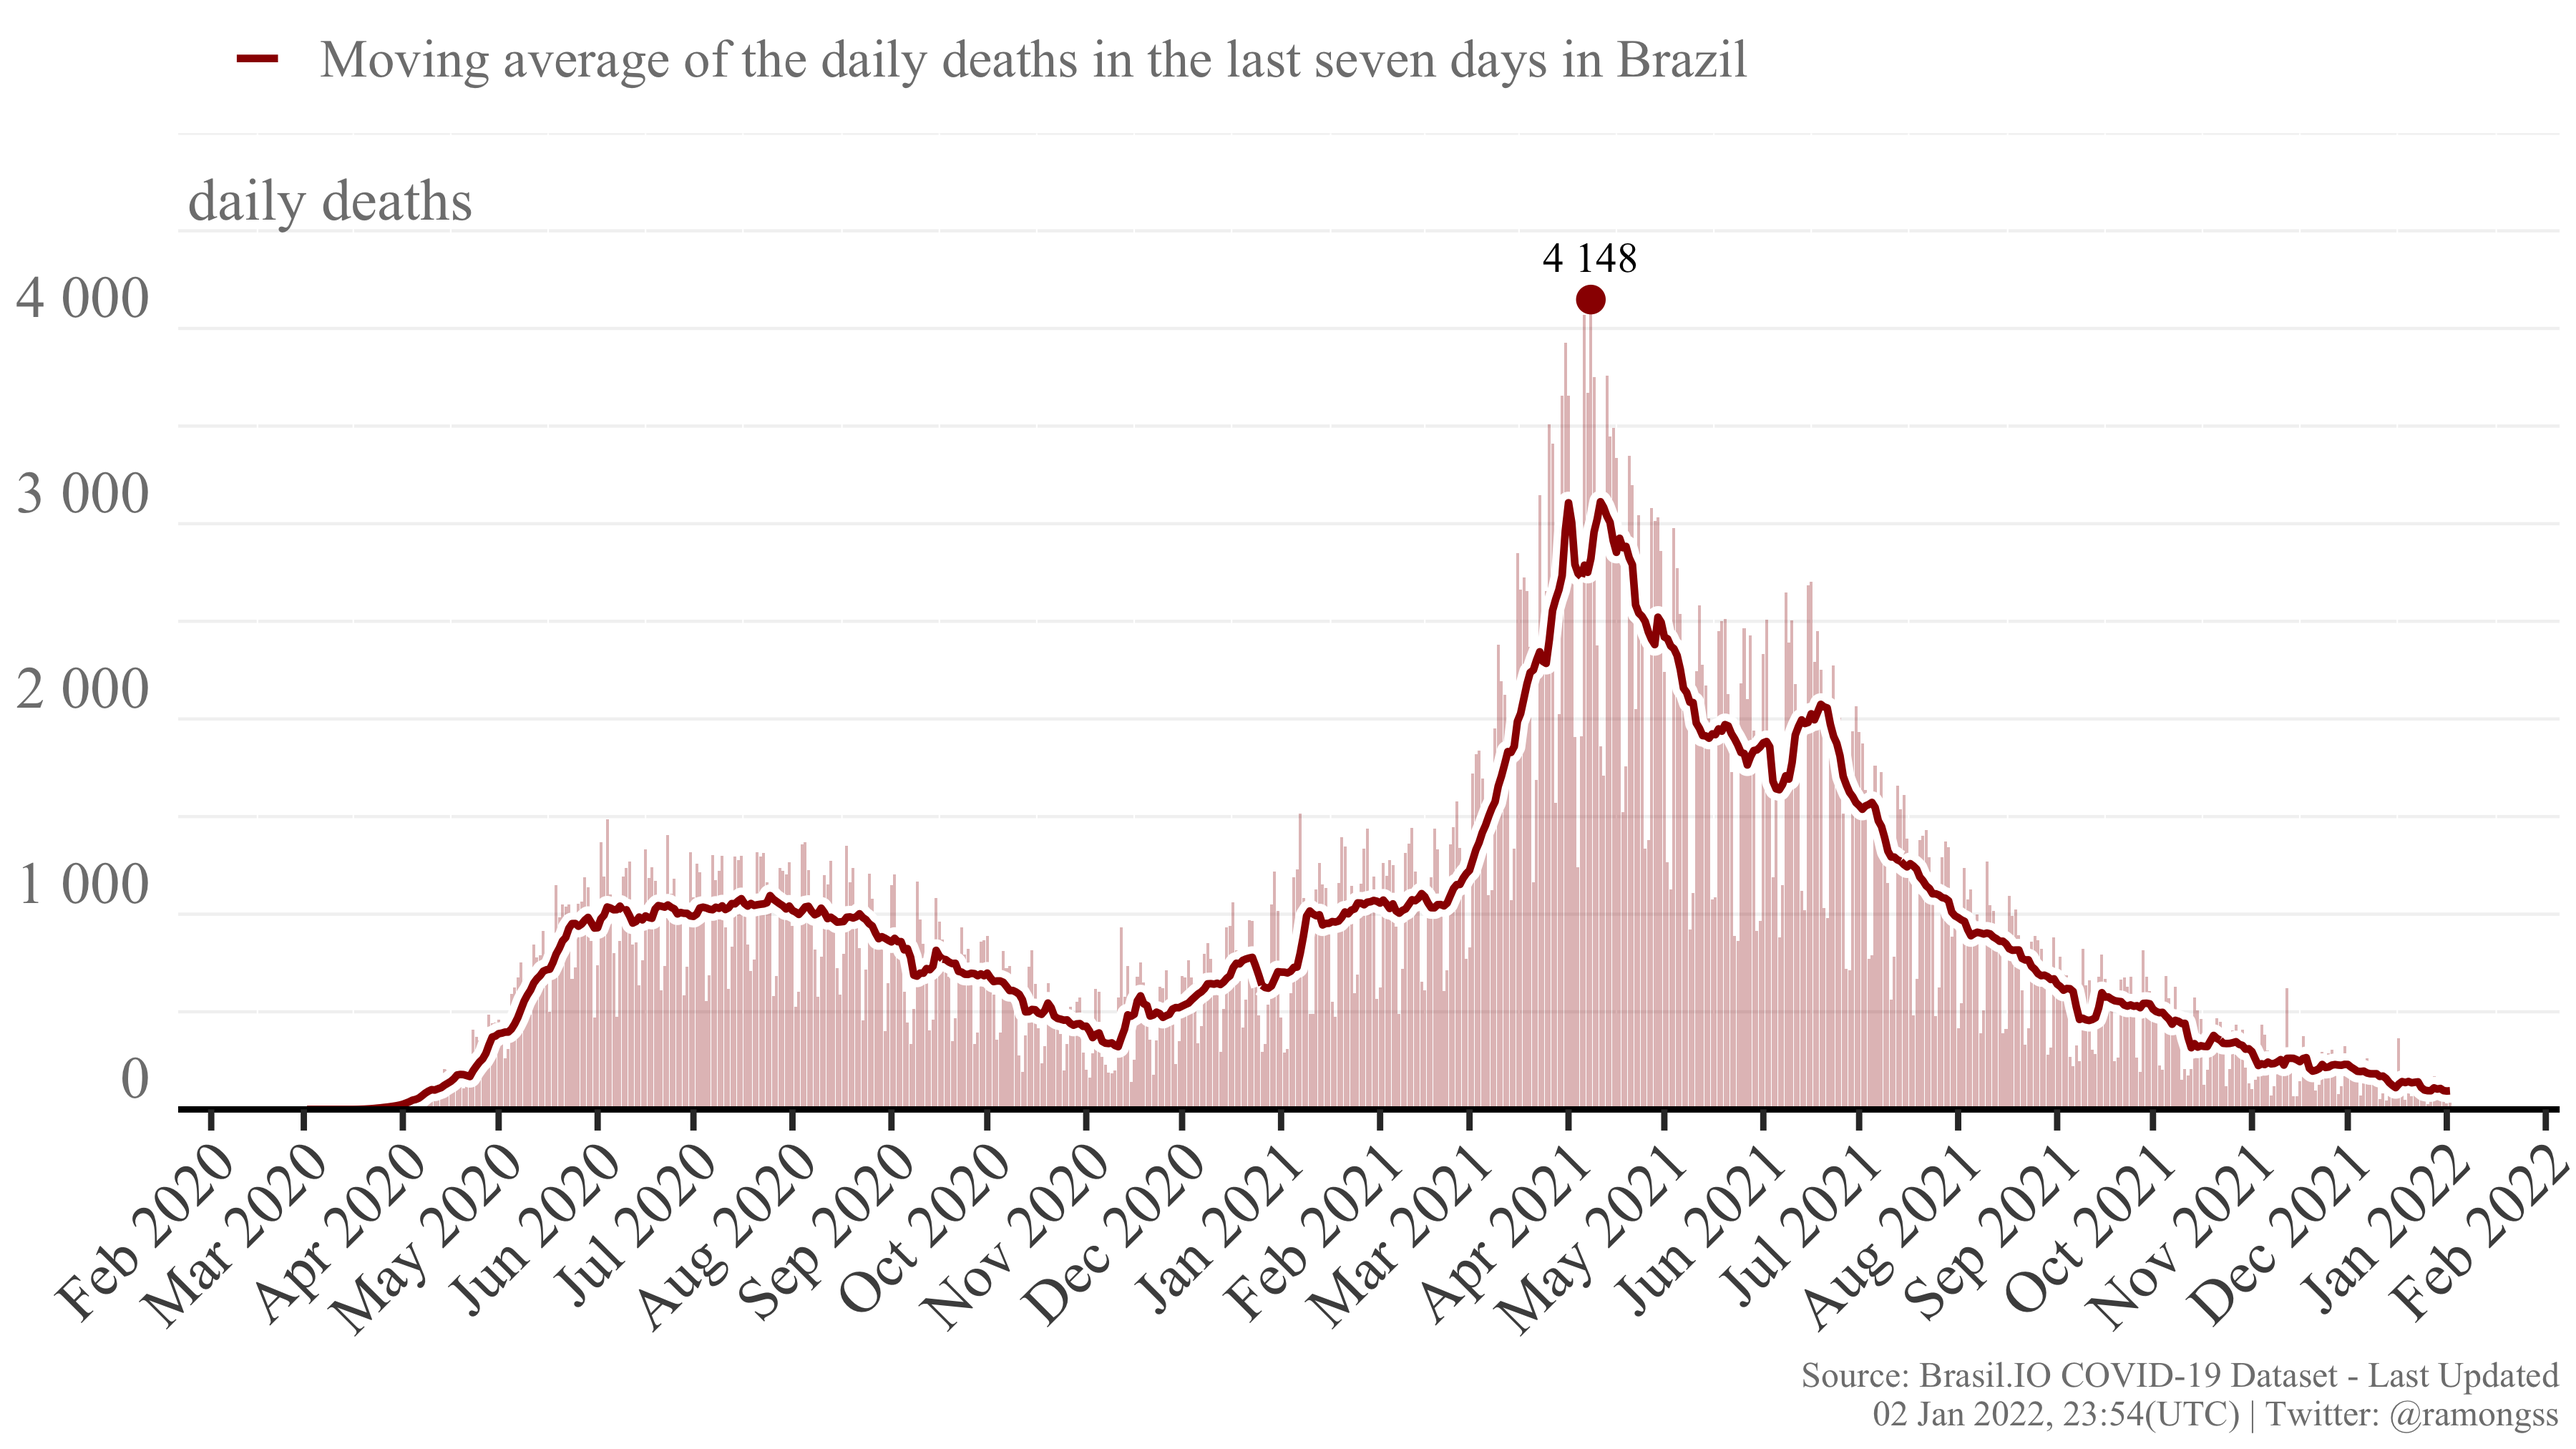
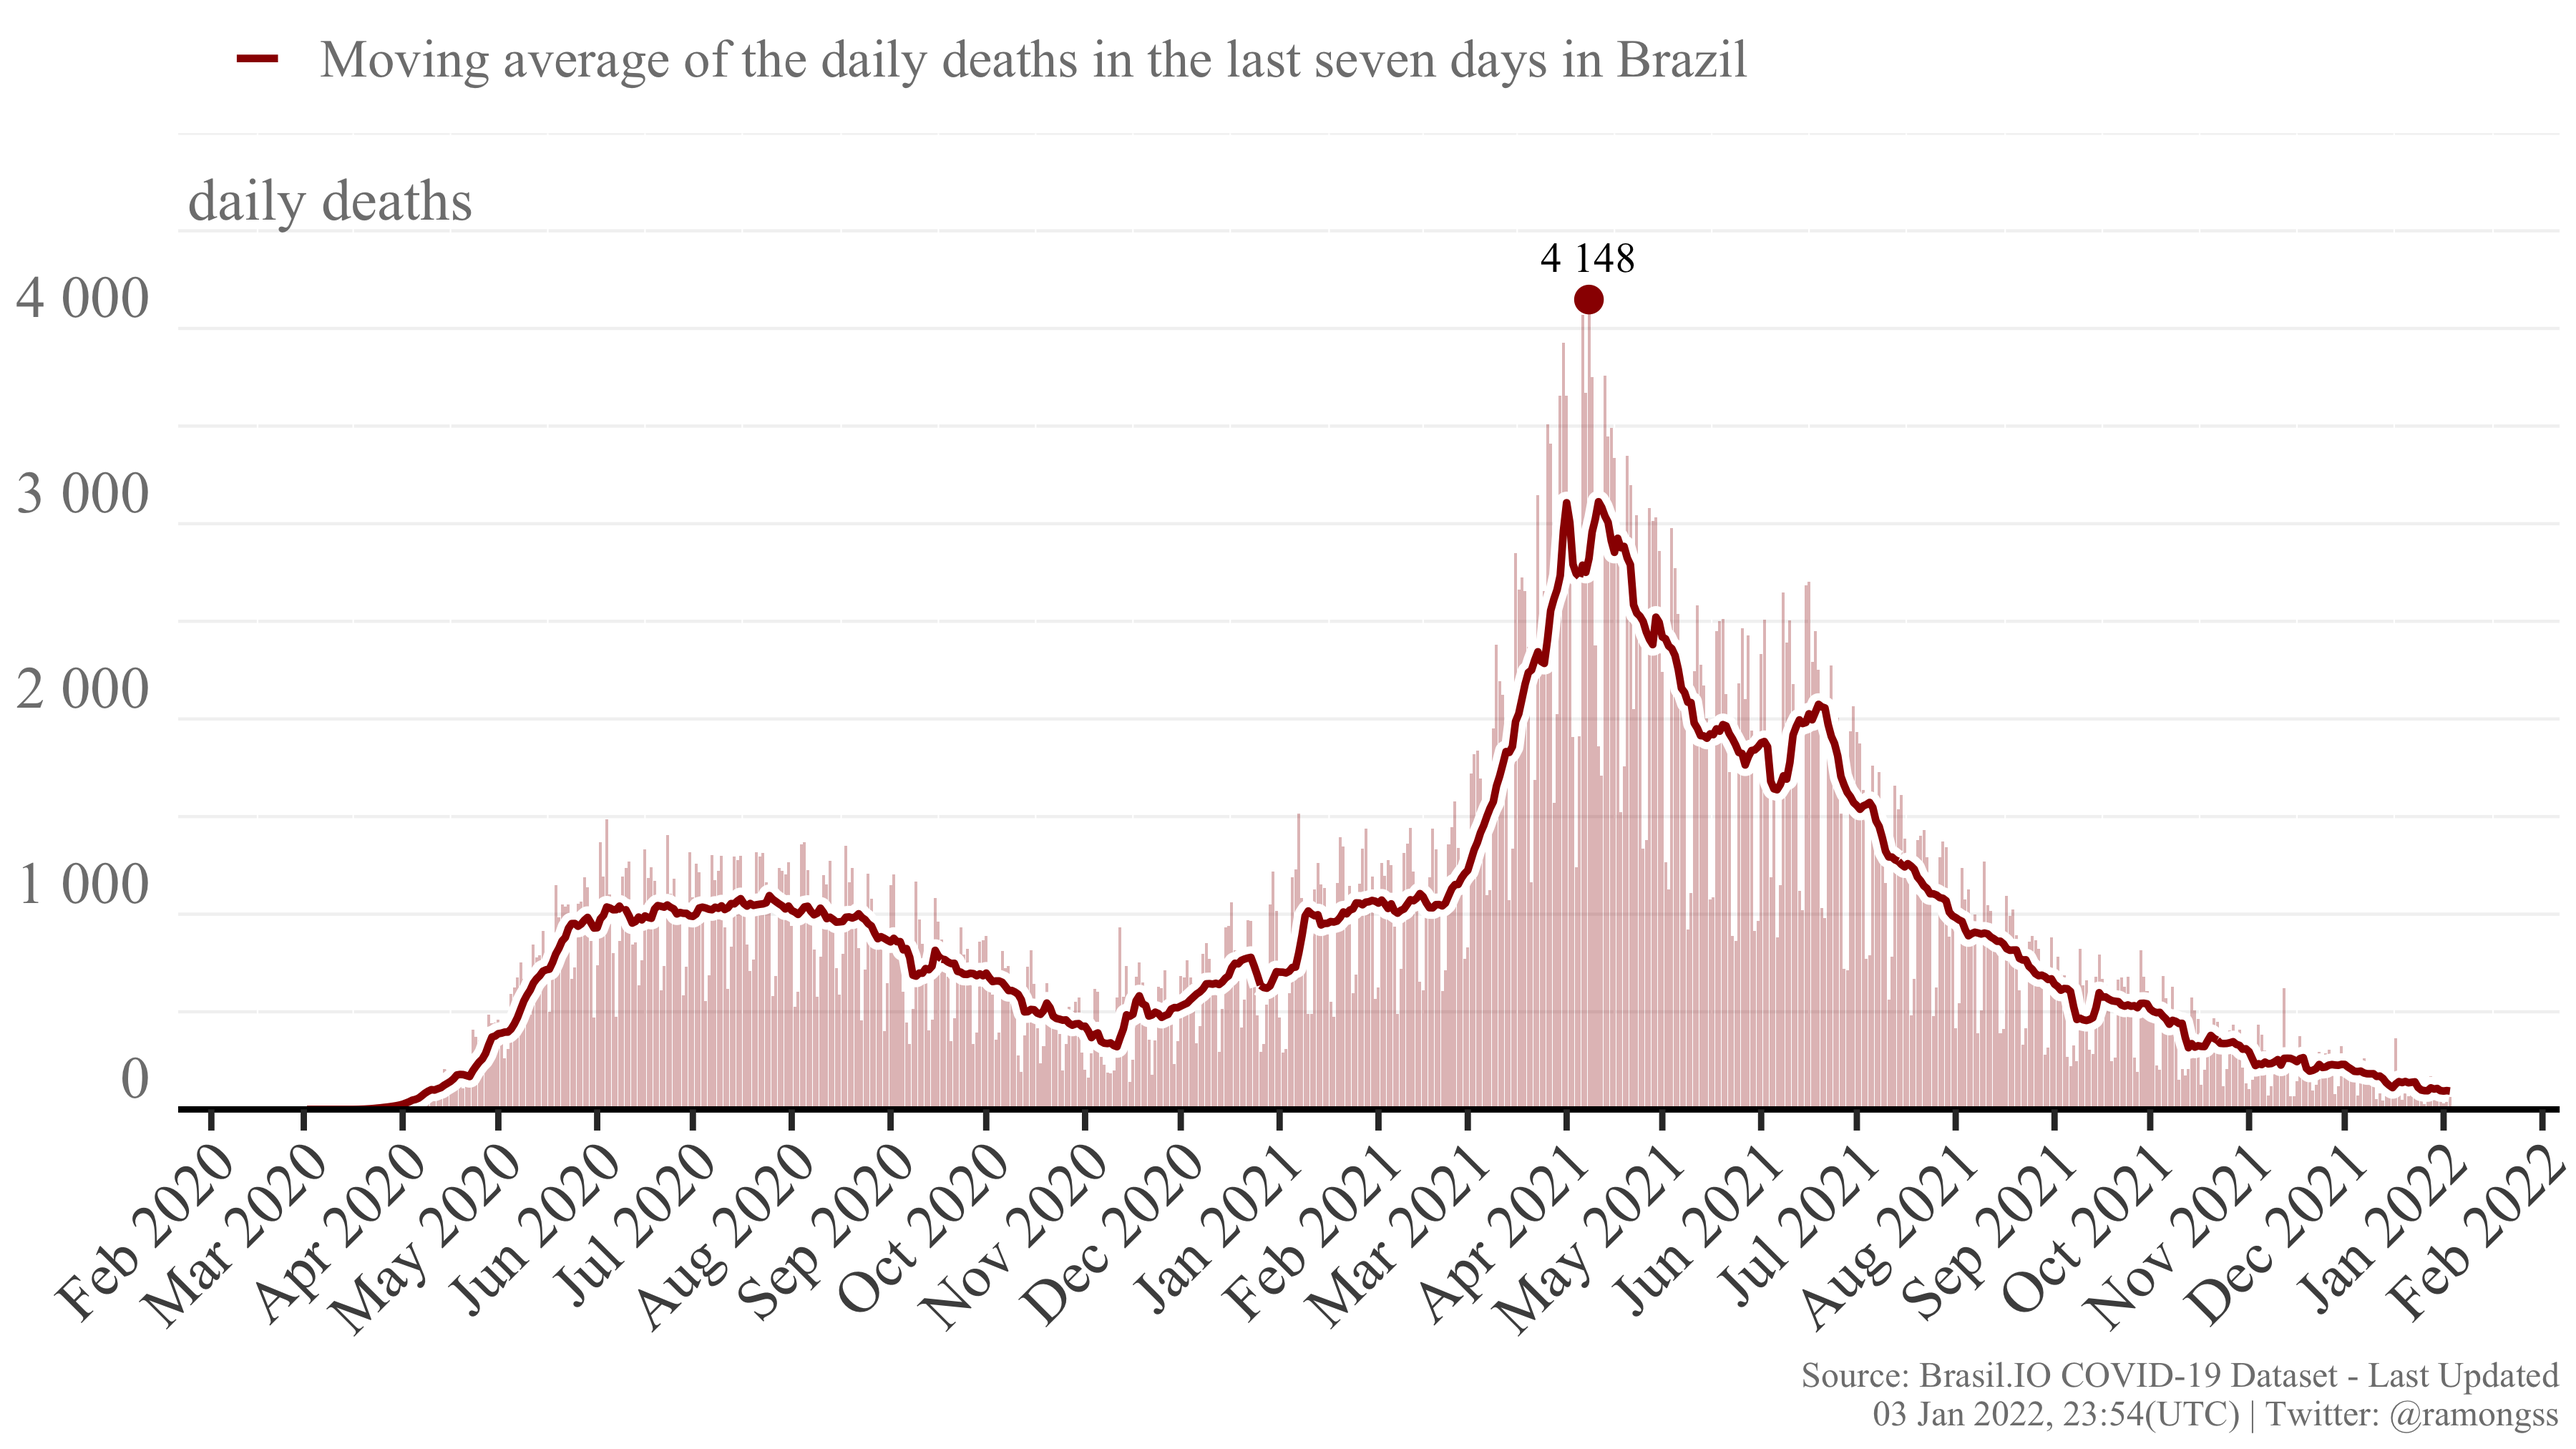
Re-build README.Rmd

diff --git a/README.md b/README.md
@@ -27,8 +27,8 @@ download_brasilio_table <- function(dataset = "covid19", table_name){
 
 ## COVID-19 Confirmed cases
 
-Currently, Brazil has a total of **22,297,418** confirmed cases at **02
-Jan, 2022**, with **1,774** new confirmed cases. The daily maximum
+Currently, Brazil has a total of **22,309,081** confirmed cases at **03
+Jan, 2022**, with **10,999** new confirmed cases. The daily maximum
 incidence was **124,878** confirmed cases at **18 Sep, 2021**. Here
 follows the Figure showing the confirmed case incidence as the bars, and
 the line as the moving average of the last 7 days.
@@ -37,8 +37,8 @@ the line as the moving average of the last 7 days.
 
 ## COVID-19 Deaths
 
-Currently, Brazil has a total of **619,401** deaths at **02 Jan, 2022**,
-with **34** new deaths. The daily maximum deaths incidence was **4,148**
+Currently, Brazil has a total of **619,473** deaths at **03 Jan, 2022**,
+with **65** new deaths. The daily maximum deaths incidence was **4,148**
 deaths at **08 Apr, 2021**. Here follows the Figure showing the deaths
 incidence as the bars, and the line as the moving average of the last 7
 days.
@@ -49,4 +49,4 @@ days.
 
 This page is daily updated automatically using Github Actions.
 
-*Last update: 02 Jan 2022, 23:54 (UTC).*
+*Last update: 03 Jan 2022, 23:54 (UTC).*
